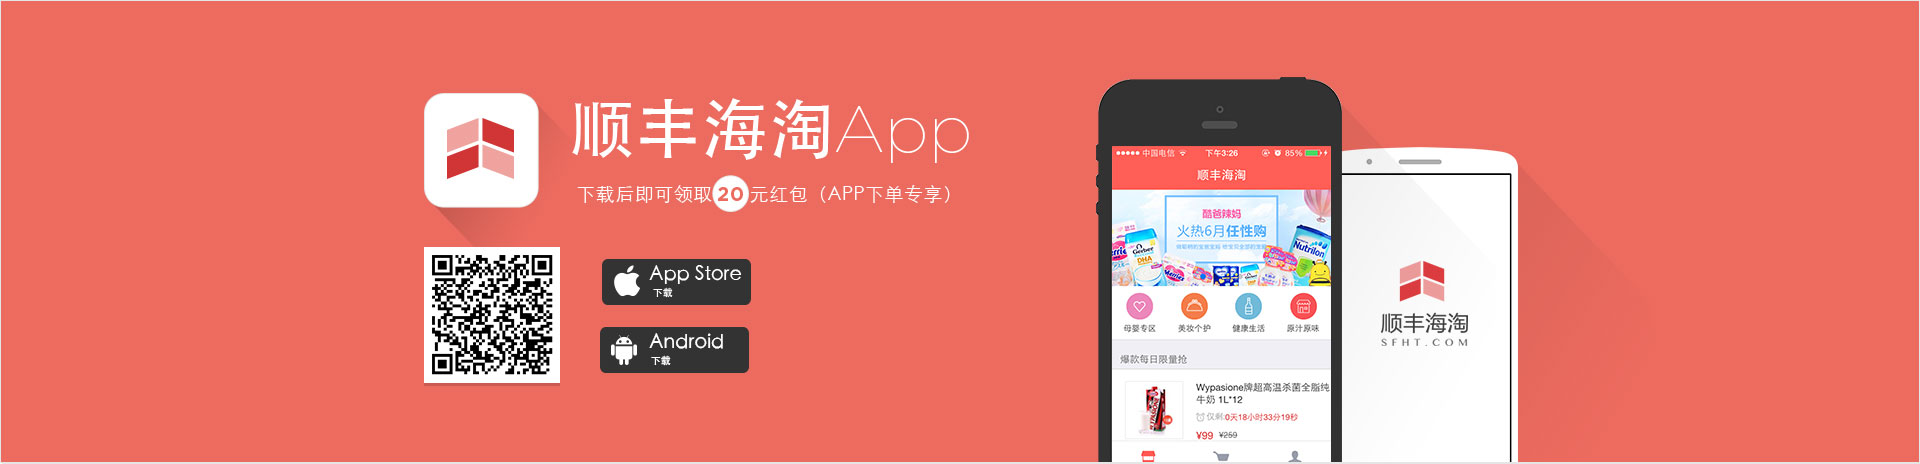
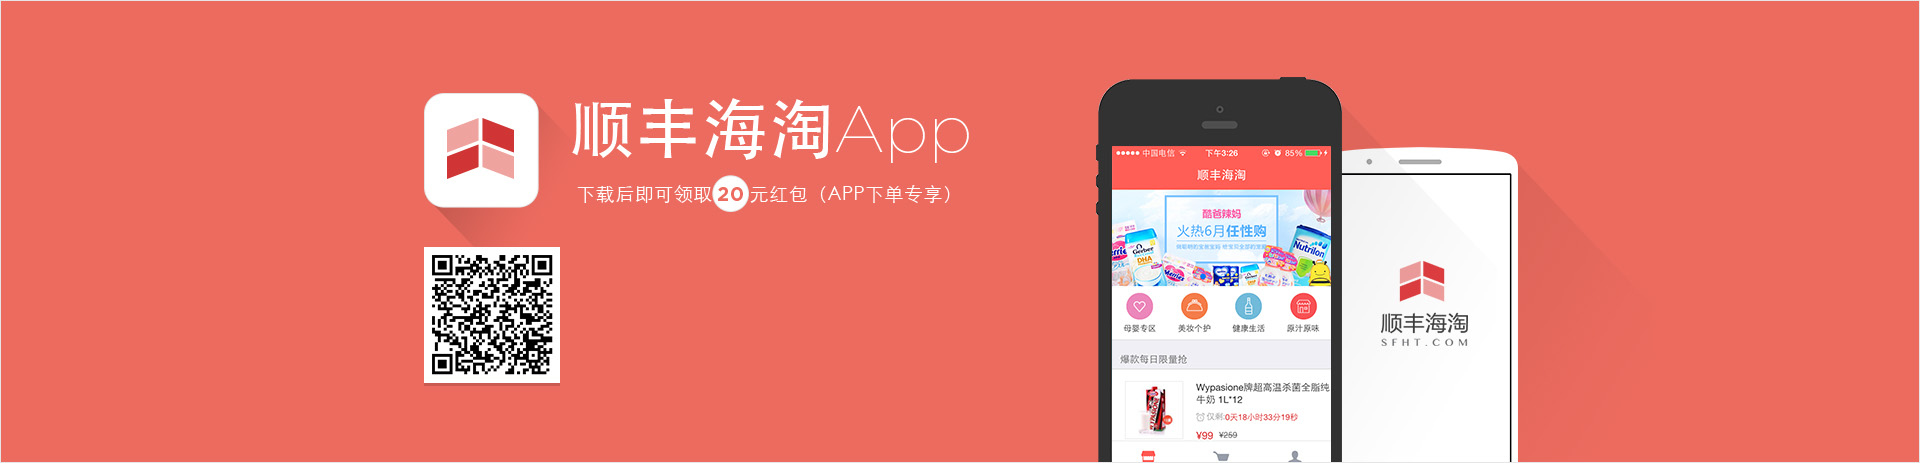
app下载

diff --git a/app/css/app.css b/app/css/app.css
@@ -1,1 +1,1 @@
-.app-banner{background:url(../img/app/app-banner.jpg) no-repeat center top;height:464px}.app-banner .pm{position:relative}.app-banner a{position:absolute;width:149px;height:46px;left:231px;text-indent:-999em}.app-banner-ios{top:260px}.app-banner-android{top:327px}.app-anywhere{position:relative;background:#f1f2e7 url(../img/app/app-map.png) repeat-x center 270px;text-align:center;color:#4a4a4a}.app-anywhere-bg{background:url(../img/app/app-anywhere-bg.png) repeat-x left 474px;height:900px;-webkit-animation:app-anywhere-bg 20s linear forwards infinite;animation:app-anywhere-bg 20s linear forwards infinite}@-webkit-keyframes app-anywhere-bg{100%{background-position:-1190px 474px}}@keyframes app-anywhere-bg{100%{background-position:-1190px 474px}}.app-anywhere h2{font-size:48px;font-weight:normal;margin-bottom:20px;padding-top:96px}.app-anywhere p{font-size:18px}.app-anywhere-phone{margin-left:-138px;position:absolute;left:50%;margin-top:90px}.app-anywhere-plane{position:absolute;left:50%;top:547px;-webkit-transform:translate3d(-50%, -3px, 0);transform:translate3d(-50%, -3px, 0);-webkit-animation:app-anywhere-plane 1s linear forwards infinite;animation:app-anywhere-plane 1s linear forwards infinite}@-webkit-keyframes app-anywhere-plane{50%{-webkit-transform:translate3d(-50%, 3px, 0);transform:translate3d(-50%, 3px, 0)}100%{-webkit-transform:translate3d(-50%, -3px, 0);transform:translate3d(-50%, -3px, 0)}}@keyframes app-anywhere-plane{50%{-webkit-transform:translate3d(-50%, 3px, 0);transform:translate3d(-50%, 3px, 0)}100%{-webkit-transform:translate3d(-50%, -3px, 0);transform:translate3d(-50%, -3px, 0)}}.app-favorable{padding-top:131px;padding-bottom:170px;background:#fff url(../img/app/app-favorable.png) no-repeat center 305px}.app-favorable li{float:left;text-align:center}.app-favorable .li1{width:380px}.app-favorable .li2{width:448px}.app-favorable .li3{width:351px}.app-favorable h2{font-size:48px;text-align:center;font-weight:normal;margin-bottom:345px}.app-favorable h3{min-width:175px;height:48px;line-height:48px;color:#fff;background:#80ba7d;display:inline-block;padding:0 17px;font-weight:normal;margin-bottom:12px;font-size:21px}.app-favorable p{font-size:16px}.app-logistics{background:#f1f2e7;text-align:center;color:#4a4a4a;position:relative}.app-logistics-bg{background:url(../img/app/app-logistics-bg.png) repeat-x left 434px;-webkit-animation:app-logistics-bg 20s linear forwards infinite;animation:app-logistics-bg 20s linear forwards infinite;padding-top:103px;padding-bottom:137px}.app-logistics h2{font-size:48px;margin-bottom:28px;font-weight:normal}.app-logistics p{font-size:16px;margin-bottom:104px}.app-logistics-where{margin-bottom:83px}.app-logistics-tire1,.app-logistics-tire2{position:absolute;left:50%;top:626px;margin-left:-106px}.app-logistics-tire2{margin-left:95px}.app-logistics-car{-webkit-transform:translate(0, -1px);-ms-transform:translate(0, -1px);transform:translate(0, -1px);-webkit-animation:app-logistics-car 0.5s linear forwards infinite;animation:app-logistics-car 0.5s linear forwards infinite}.app-logistics-shadow{position:absolute;top:673px;left:50%;margin-left:-130px;-webkit-animation:app-logistics-shadow 0.5s linear forwards infinite;animation:app-logistics-shadow 0.5s linear forwards infinite}@-webkit-keyframes app-logistics-bg{100%{background-position:-1920px 434px}}@keyframes app-logistics-bg{100%{background-position:-1920px 434px}}@-webkit-keyframes app-logistics-car{50%{-webkit-transform:translate3d(0, 1px, 0);transform:translate3d(0, 1px, 0)}100%{-webkit-transform:translate3d(0, -1px, 0);transform:translate3d(0, -1px, 0)}}@keyframes app-logistics-car{50%{-webkit-transform:translate3d(0, 1px, 0);transform:translate3d(0, 1px, 0)}100%{-webkit-transform:translate3d(0, -1px, 0);transform:translate3d(0, -1px, 0)}}@-webkit-keyframes app-logistics-shadow{50%{-webkit-transform:scaleX(0.8);transform:scaleX(0.8)}100%{-webkit-transform:scaleX(1);transform:scaleX(1)}}@keyframes app-logistics-shadow{50%{-webkit-transform:scaleX(0.8);transform:scaleX(0.8)}100%{-webkit-transform:scaleX(1);transform:scaleX(1)}}.app-user{background:#ec6b5f;color:#fff;text-align:center;padding-top:84px;padding-bottom:81px}.app-user h2{font-size:48px;font-weight:normal;margin-bottom:49px}.app-user ul{width:1184px;height:129px;display:inline-block;border:3px solid #f7c4bf;padding-top:32px;position:relative;-webkit-box-sizing:border-box;-moz-box-sizing:border-box;box-sizing:border-box}.app-user ul:before{content:'';position:absolute;border-width:10px;border-style:solid;border-color:#f7c4bf transparent transparent #f7c4bf;left:37px;bottom:-23px}.app-user li{font-size:18px;line-height:34px;display:inline-block}.app-download{background:#333;color:#fff;padding-top:47px;padding-bottom:100px;text-align:center;font-size:13px;line-height:20px}.app-download img{margin-bottom:23px;padding:7px;background:#fff;border:2px solid #262626}.app-download span{display:inline-block;width:22px;height:22px;line-height:22px;text-align:center;color:#ec6b5f;background:#fff;-webkit-border-radius:50%;border-radius:50%}
+.app-banner{background:url(../img/app/app-banner.jpg) no-repeat center top;height:464px}.app-banner .pm{position:relative}.app-banner a{position:absolute;width:149px;height:46px;left:231px;text-indent:-999em}.app-banner a:hover{opacity:0.8}.app-banner-ios{top:260px;background:url(../img/app/app-banner-ios.png) no-repeat}.app-banner-android{background:url(../img/app/app-banner-android.png) no-repeat;top:327px}.app-anywhere{position:relative;background:#f1f2e7 url(../img/app/app-map.png) repeat-x center 270px;text-align:center;color:#4a4a4a}.app-anywhere-bg{background:url(../img/app/app-anywhere-bg.png) repeat-x left 474px;height:900px;-webkit-animation:app-anywhere-bg 20s linear forwards infinite;animation:app-anywhere-bg 20s linear forwards infinite}@-webkit-keyframes app-anywhere-bg{100%{background-position:-1190px 474px}}@keyframes app-anywhere-bg{100%{background-position:-1190px 474px}}.app-anywhere h2{font-size:48px;font-weight:normal;margin-bottom:20px;padding-top:96px}.app-anywhere p{font-size:18px}.app-anywhere-phone{margin-left:-138px;position:absolute;left:50%;margin-top:90px}.app-anywhere-plane{position:absolute;left:50%;top:547px;-webkit-transform:translate3d(-50%, -3px, 0);transform:translate3d(-50%, -3px, 0);-webkit-animation:app-anywhere-plane 1s linear forwards infinite;animation:app-anywhere-plane 1s linear forwards infinite}@-webkit-keyframes app-anywhere-plane{50%{-webkit-transform:translate3d(-50%, 3px, 0);transform:translate3d(-50%, 3px, 0)}100%{-webkit-transform:translate3d(-50%, -3px, 0);transform:translate3d(-50%, -3px, 0)}}@keyframes app-anywhere-plane{50%{-webkit-transform:translate3d(-50%, 3px, 0);transform:translate3d(-50%, 3px, 0)}100%{-webkit-transform:translate3d(-50%, -3px, 0);transform:translate3d(-50%, -3px, 0)}}.app-favorable{padding-top:131px;padding-bottom:170px;background:#fff url(../img/app/app-favorable.png) no-repeat center 305px}.app-favorable li{float:left;text-align:center}.app-favorable .li1{width:380px}.app-favorable .li2{width:448px}.app-favorable .li3{width:351px}.app-favorable h2{font-size:48px;text-align:center;font-weight:normal;margin-bottom:345px}.app-favorable h3{min-width:175px;height:48px;line-height:48px;color:#fff;background:#80ba7d;display:inline-block;padding:0 17px;font-weight:normal;margin-bottom:12px;font-size:21px}.app-favorable p{font-size:16px}.app-logistics{background:#f1f2e7;text-align:center;color:#4a4a4a;position:relative}.app-logistics-bg{background:url(../img/app/app-logistics-bg.png) repeat-x left 434px;-webkit-animation:app-logistics-bg 20s linear forwards infinite;animation:app-logistics-bg 20s linear forwards infinite;padding-top:103px;padding-bottom:137px}.app-logistics h2{font-size:48px;margin-bottom:28px;font-weight:normal}.app-logistics p{font-size:16px;margin-bottom:104px}.app-logistics-where{margin-bottom:83px}.app-logistics-tire1,.app-logistics-tire2{position:absolute;left:50%;top:626px;margin-left:-106px}.app-logistics-tire2{margin-left:95px}.app-logistics-car{-webkit-transform:translate(0, -1px);-ms-transform:translate(0, -1px);transform:translate(0, -1px);-webkit-animation:app-logistics-car 0.5s linear forwards infinite;animation:app-logistics-car 0.5s linear forwards infinite}.app-logistics-shadow{position:absolute;top:673px;left:50%;margin-left:-130px;-webkit-animation:app-logistics-shadow 0.5s linear forwards infinite;animation:app-logistics-shadow 0.5s linear forwards infinite}@-webkit-keyframes app-logistics-bg{100%{background-position:-1920px 434px}}@keyframes app-logistics-bg{100%{background-position:-1920px 434px}}@-webkit-keyframes app-logistics-car{50%{-webkit-transform:translate3d(0, 1px, 0);transform:translate3d(0, 1px, 0)}100%{-webkit-transform:translate3d(0, -1px, 0);transform:translate3d(0, -1px, 0)}}@keyframes app-logistics-car{50%{-webkit-transform:translate3d(0, 1px, 0);transform:translate3d(0, 1px, 0)}100%{-webkit-transform:translate3d(0, -1px, 0);transform:translate3d(0, -1px, 0)}}@-webkit-keyframes app-logistics-shadow{50%{-webkit-transform:scaleX(0.8);transform:scaleX(0.8)}100%{-webkit-transform:scaleX(1);transform:scaleX(1)}}@keyframes app-logistics-shadow{50%{-webkit-transform:scaleX(0.8);transform:scaleX(0.8)}100%{-webkit-transform:scaleX(1);transform:scaleX(1)}}.app-user{background:#ec6b5f;color:#fff;text-align:center;padding-top:84px;padding-bottom:81px}.app-user h2{font-size:48px;font-weight:normal;margin-bottom:49px}.app-user ul{width:1184px;height:129px;display:inline-block;border:3px solid #f7c4bf;padding-top:32px;position:relative;-webkit-box-sizing:border-box;-moz-box-sizing:border-box;box-sizing:border-box}.app-user ul:before{content:'';position:absolute;border-width:10px;border-style:solid;border-color:#f7c4bf transparent transparent #f7c4bf;left:37px;bottom:-23px}.app-user li{font-size:18px;line-height:34px;display:inline-block}.app-download{background:#333;color:#fff;padding-top:47px;padding-bottom:100px;text-align:center;font-size:13px;line-height:20px}.app-download img{margin-bottom:23px;padding:7px;background:#fff;border:2px solid #262626}.app-download span{display:inline-block;width:22px;height:22px;line-height:22px;text-align:center;color:#ec6b5f;background:#fff;-webkit-border-radius:50%;border-radius:50%}

diff --git a/app/scss/app.scss b/app/scss/app.scss
@@ -14,10 +14,15 @@
 	left:231px;
 	text-indent: -999em;
 }
+.app-banner a:hover{
+	opacity:0.8;
+}
 .app-banner-ios{
 	top: 260px;
+	background: url(#{$bg-url}app/app-banner-ios.png) no-repeat;
 }
 .app-banner-android{
+	background: url(#{$bg-url}app/app-banner-android.png) no-repeat;
 	top: 327px;
 }
 
